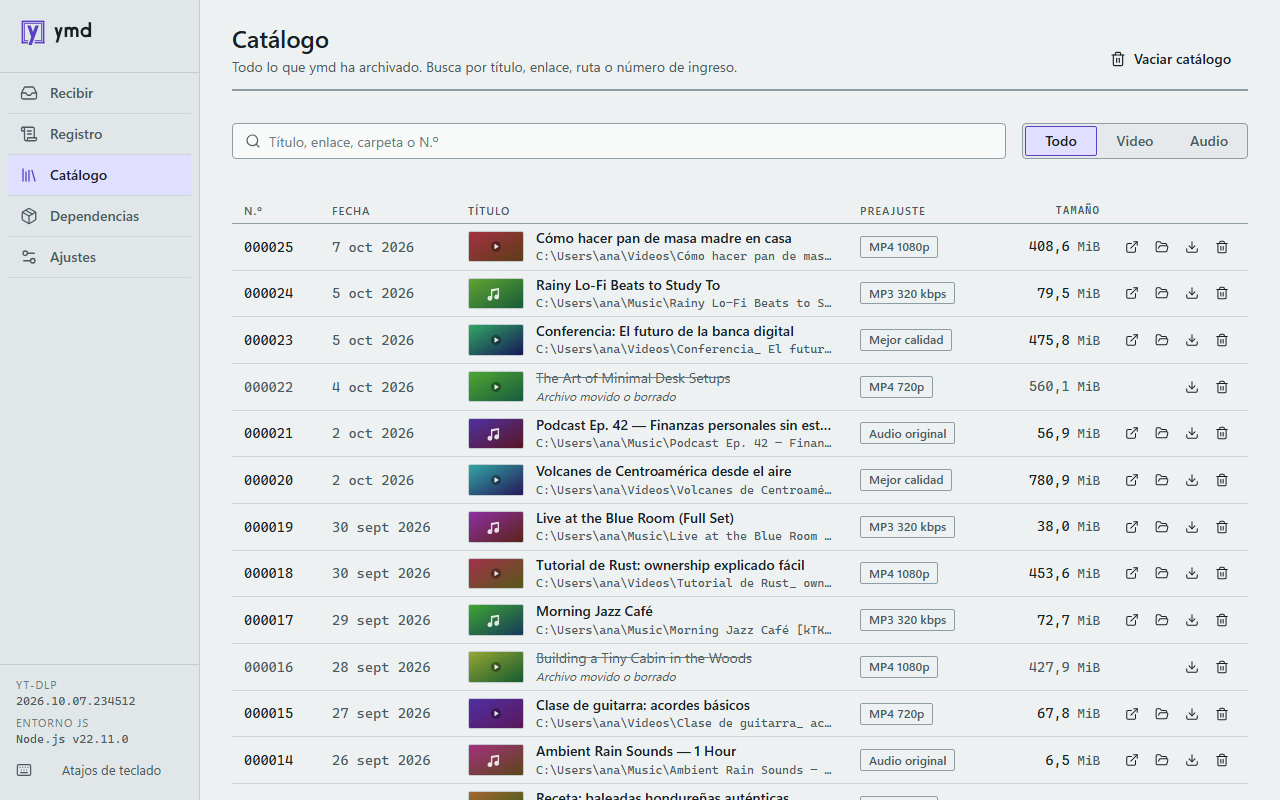
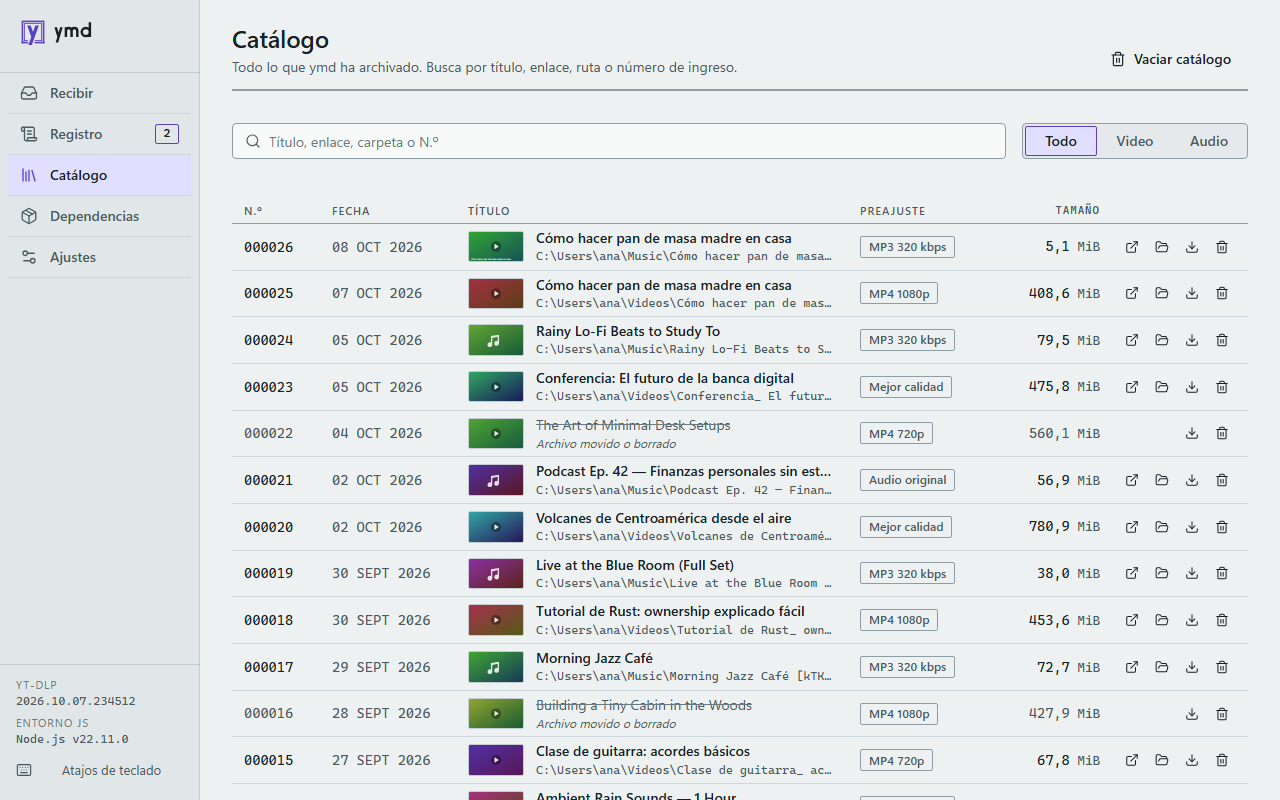
Verdict fixes: one filing-date format, catalog capture from the same session, URL on its own row at 880

diff --git a/src/screens/catalog/CatalogScreen.tsx b/src/screens/catalog/CatalogScreen.tsx
@@ -32,7 +32,7 @@ import {
   TextField,
   Thumb,
   Tooltip,
-  formatDate,
+  formatStampDate,
 } from "../../ui";
 import { currentLocale } from "../../i18n";
 import { openFile, showInFolder } from "../../app/native";
@@ -242,7 +242,7 @@ function CatalogRow({ item }: { item: HistoryItem }) {
         <SeqFigure seq={item.seq} />
       </LedgerCell>
       <LedgerCell className={s.cDate}>
-        <Figure value={formatDate(item.completedAt, locale)} muted />
+        <Figure value={formatStampDate(item.completedAt, locale)} muted />
       </LedgerCell>
       <LedgerCell>
         <div className={s.titleCell}>

diff --git a/src/screens/receive/receive.module.css b/src/screens/receive/receive.module.css
@@ -20,8 +20,8 @@
 .preset {
   min-width: 0;
 }
-/* only a genuinely narrow counter wraps the link onto its own row */
-@container (max-width: 680px) {
+/* below ~820px the link gets its own full-width row so a pasted URL stays readable */
+@container (max-width: 820px) {
   .counter {
     grid-template-columns: auto minmax(8rem, 1fr) auto;
   }
@@ -29,9 +29,8 @@
     grid-column: 1 / -1;
   }
 }
-@container (max-width: 860px) {
+@container (max-width: 1000px) {
   .counter {
-    grid-template-columns: minmax(12rem, 1fr) auto minmax(8.5rem, 11rem) auto;
     gap: var(--space-2);
   }
 }

diff --git a/src/screens/catalog/__tests__/catalog.test.tsx b/src/screens/catalog/__tests__/catalog.test.tsx
@@ -84,6 +84,8 @@ describe("Catálogo", () => {
     expect(screen.getByRole("columnheader", { name: "N.º" })).toBeInTheDocument();
     const newest = rows()[0];
     expect(within(newest).getByText("000025")).toBeInTheDocument();
+    // filing dates use the stamp formatter everywhere ("07 OCT 2026")
+    expect(within(newest).getByText(/^\d{2}\s[A-Z]{3,4}\s\d{4}$/)).toBeInTheDocument();
     // "Best quality" stored, shown by id in the UI language
     expect(screen.getAllByText("Mejor calidad").length).toBeGreaterThan(0);
     expect(screen.queryByText("Best quality")).toBeNull();
